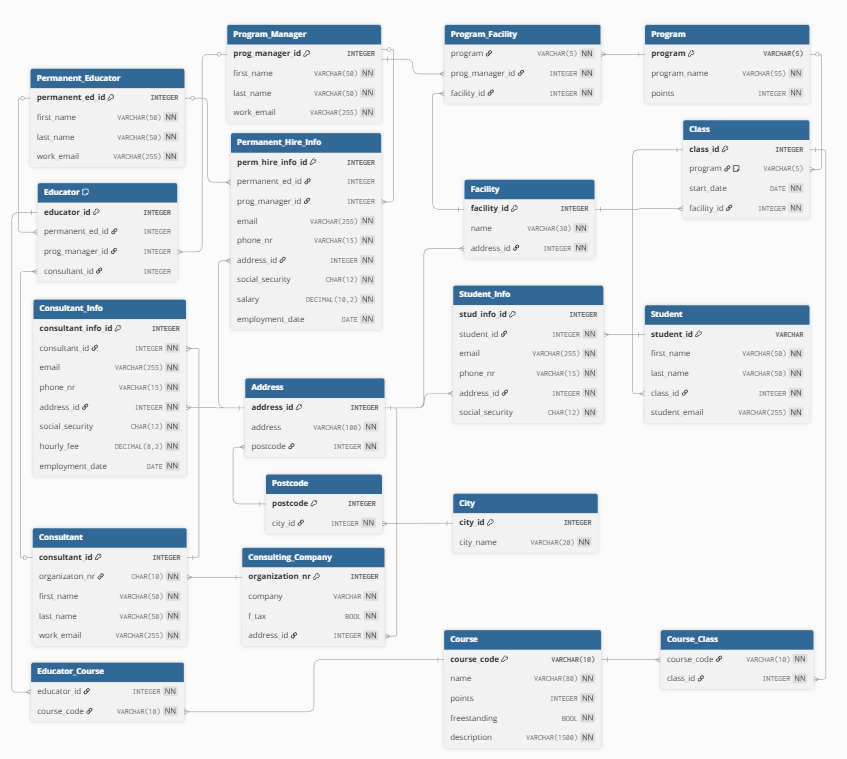
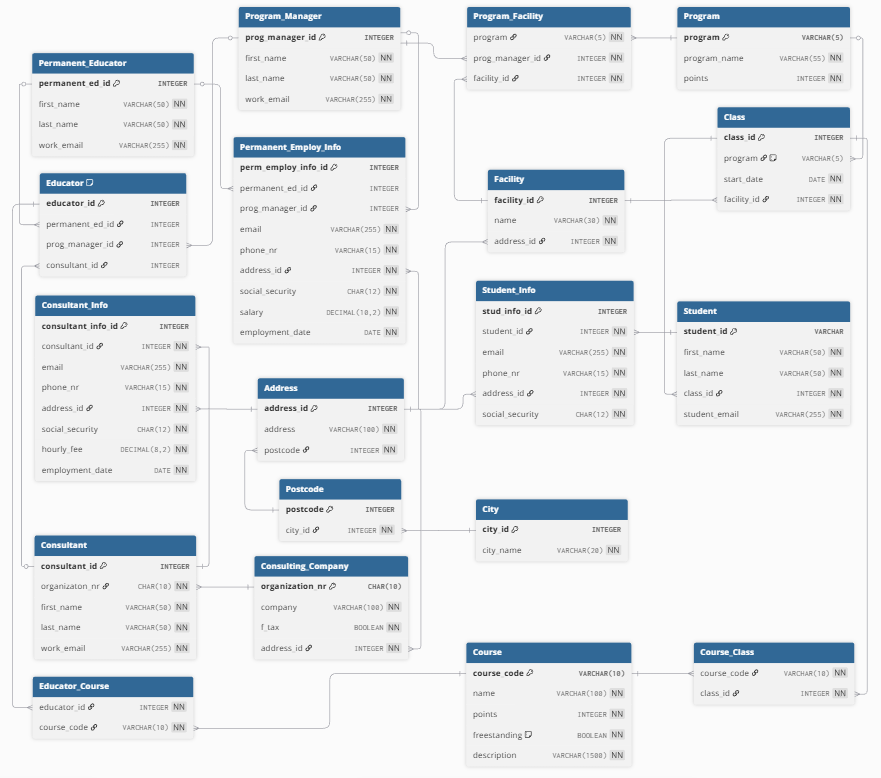
Kod för tabeller och små text-fix

diff --git a/Normalformer.md b/Normalformer.md
@@ -11,10 +11,12 @@ Alla värden i en kolumn måste ha samma datatyp e.g. INTEGER för siffa.
 
 Alla rader måste vara unika.
 
+<div style="margin-bottom: 2em;"></div>
 
 ### Andra normalformen
 Ett non-key attribut (kolumn) måste vara fullt beroende av hela komposit nyckeln. En kompositnyckel är en primärnyckel som består av två eller fler attribut som tillsammans unikt identifierar varje rad.
 
+<div style="margin-bottom: 2em;"></div>
 
 ### Tredje normalformen
 Ett attribut får endast vara peroende av primära nyckeln och endast primära nyckeln. Om det uppstår ett transitivt beroende är ett attribut beroende av primära nyckeln genom ett annat attribut, alltså att attributet är beroende av ett annat non-prime attribut.

diff --git a/Kravspecificationer.md b/Kravspecificationer.md
@@ -17,7 +17,7 @@ YrkesCo har identifierat att de vill ha en databas som har information:
 
 - kurser med namn, kurskod, antal poäng, kort beskrivning av kursen
 
-- program har ett antal kurser knutna till sig
+- en klass har ett antal kurser knutna till sig
 
 - ett program blir beviljat i tre omgångar, dvs att det finns 3 klasser
 
@@ -34,3 +34,5 @@ expandera till flera orter
 - fristående kurser är påbyggnadskurser, dessa finns inte med i program. 
 
 - man kan vara skriven på EN fristående kurs.
+
+- kurser med samma namn kan ha olika poäng mellan klasserna

diff --git a/README.md b/README.md
@@ -30,7 +30,7 @@ Se även: [Kod fysisk modell](modeller/fysisk_modell.dbml)
 
 <div style="margin-bottom: 3em;"></div>
 
-## Normala former
+## Normalformer
 Denna databas uppnår kraven för tredje normalformen som efterfrågats. Alla attribut i entitterna är beroende av den primära nyckeln, De har unika namn inom entiteterna och upprepar inte information i onödan. 
 
 Läs mer om normalformer och hur denna databas uppfyller dessa krav här: [Normalformer](Normalformer.md)
